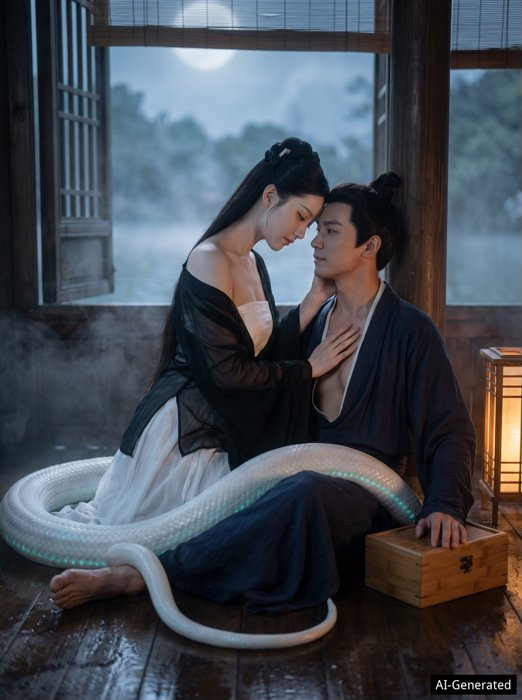
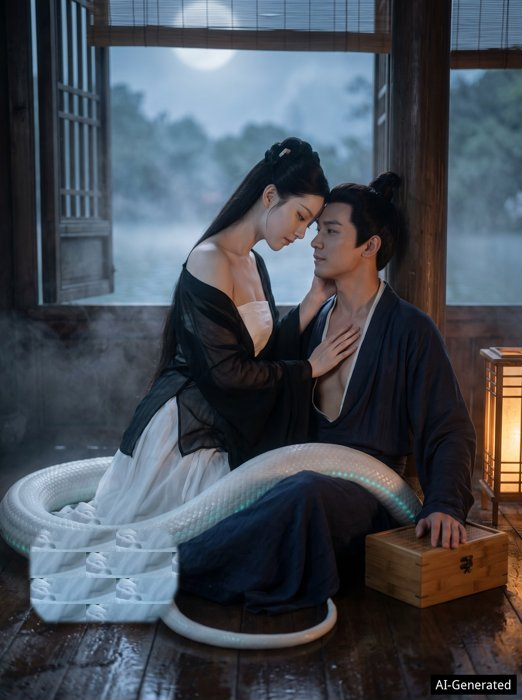
Remove the bare left foot from the p01 body board.
The pose lock still showed a human foot beside the snake coil, so image edit copied it. That region is now continuous pearl-white scales, and the p01 prompt names toes and ankle as negatives.

Changed region(s): [[0.0307, 0.75, 0.3678, 0.9]]

diff --git a/ai-realistic-comic/library/stills/explicit-8/prompts.md b/ai-realistic-comic/library/stills/explicit-8/prompts.md
@@ -17,10 +17,10 @@ refs:
 width: 896
 height: 1200
 <!-- GEN_START -->
-Photoreal cinematic still. Replicate the matching approved sample and corresponding body board exactly for framing, pose, facial expression, and snake-tail shape; do not invent a different pose, expression, or tail shape. Adult East Asian woman Lin Wantang and adult East Asian man Gu Cheng'an only. The cast reference portraits lock these exact adult faces, ages, and costumes; do not invent a different face or a different outfit. Keep the emotion already on their faces in the pose board; do not change that expression or the kneeling/leaning pose. Night wooden cabin, moonlight. She is coiled on the floor in serpent form: no human legs and no human feet anywhere in the frame, only one thick pearl-white snake tail. No fish tail, no fins, no fluke. The tail is one unbroken length of the same tail, not cut off and not a separate piece. The same diamond scales run from the tail root all the way to a blunt rounded tip; the last segment and the tip are scaled, with no smooth cap and no break in the scales. The tip is still tail, not a head: no eye, no green eye, no mouth, no nostril, no jaw, no snake face, no second face. Teal glow only along the belly scutes. No second tail. Her black sheer robe is fully open and slipped off one shoulder, white bandeau pulled down, bare breasts pressed to his bare chest, his indigo robe opened to bare chest and abdomen, her hand flat on his bare chest, faces nearly touching, lips a breath apart, the tail wrapped around his hips and lower body in intimate sexual contact, with no human leg or foot visible. Adult fiction only. No text.
+Photoreal cinematic still. Replicate the matching approved sample and corresponding body board exactly for framing, pose, facial expression, and snake-tail shape; do not invent a different pose, expression, or tail shape. Adult East Asian woman Lin Wantang and adult East Asian man Gu Cheng'an only. The cast reference portraits lock these exact adult faces, ages, and costumes; do not invent a different face or a different outfit. Keep the emotion already on their faces in the pose board; do not change that expression or the kneeling/leaning pose. Night wooden cabin, moonlight. She is coiled on the floor in serpent form: no human legs and no human feet anywhere in the frame, only one thick pearl-white snake tail. The left side of the coil is continuous pearl-white scales with no bare foot, no toes, and no ankle. No fish tail, no fins, no fluke. The tail is one unbroken length of the same tail, not cut off and not a separate piece. The same diamond scales run from the tail root all the way to a blunt rounded tip; the last segment and the tip are scaled, with no smooth cap and no break in the scales. The tip is still tail, not a head: no eye, no green eye, no mouth, no nostril, no jaw, no snake face, no second face. Teal glow only along the belly scutes. No second tail. Her black sheer robe is fully open and slipped off one shoulder, white bandeau pulled down, bare breasts pressed to his bare chest, his indigo robe opened to bare chest and abdomen, her hand flat on his bare chest, faces nearly touching, lips a breath apart, the tail wrapped around his hips and lower body in intimate sexual contact, with no human leg or foot visible. Adult fiction only. No text.
 <!-- GEN_END -->
 <!-- NEG_START -->
-text, watermark, logo, extra person, child, teen, minor, fish tail, fins, fluke, caudal fin, mermaid, second tail, human legs, human feet, male legs, male feet, her legs, her feet, her thighs, her knees, severed tail, cut-off tail, chopped tail, stump, broken tail, tail ending in a head, snake head at the tail tip, head at the tail tip, smooth unscaled tip, smooth tail tip, bare skin tip, abrupt unscaled last segment, snake head, green eye on the tail, green eyes, eye on the tail, mouth on the tail, nostril, jaw, second face, second snake face, changed face, different person, changed emotion, smile if the board is not smiling, changed pose, clothes fully closed, wrong costume, censored bars
+text, watermark, logo, extra person, child, teen, minor, fish tail, fins, fluke, caudal fin, mermaid, second tail, human legs, human feet, bare foot, toes, ankle, foot on the left of the coil, male legs, male feet, her legs, her feet, her thighs, her knees, severed tail, cut-off tail, chopped tail, stump, broken tail, tail ending in a head, snake head at the tail tip, head at the tail tip, smooth unscaled tip, smooth tail tip, bare skin tip, abrupt unscaled last segment, snake head, green eye on the tail, green eyes, eye on the tail, mouth on the tail, nostril, jaw, second face, second snake face, changed face, different person, changed emotion, smile if the board is not smiling, changed pose, clothes fully closed, wrong costume, censored bars
 <!-- NEG_END -->
 <!-- P01_END -->
 
